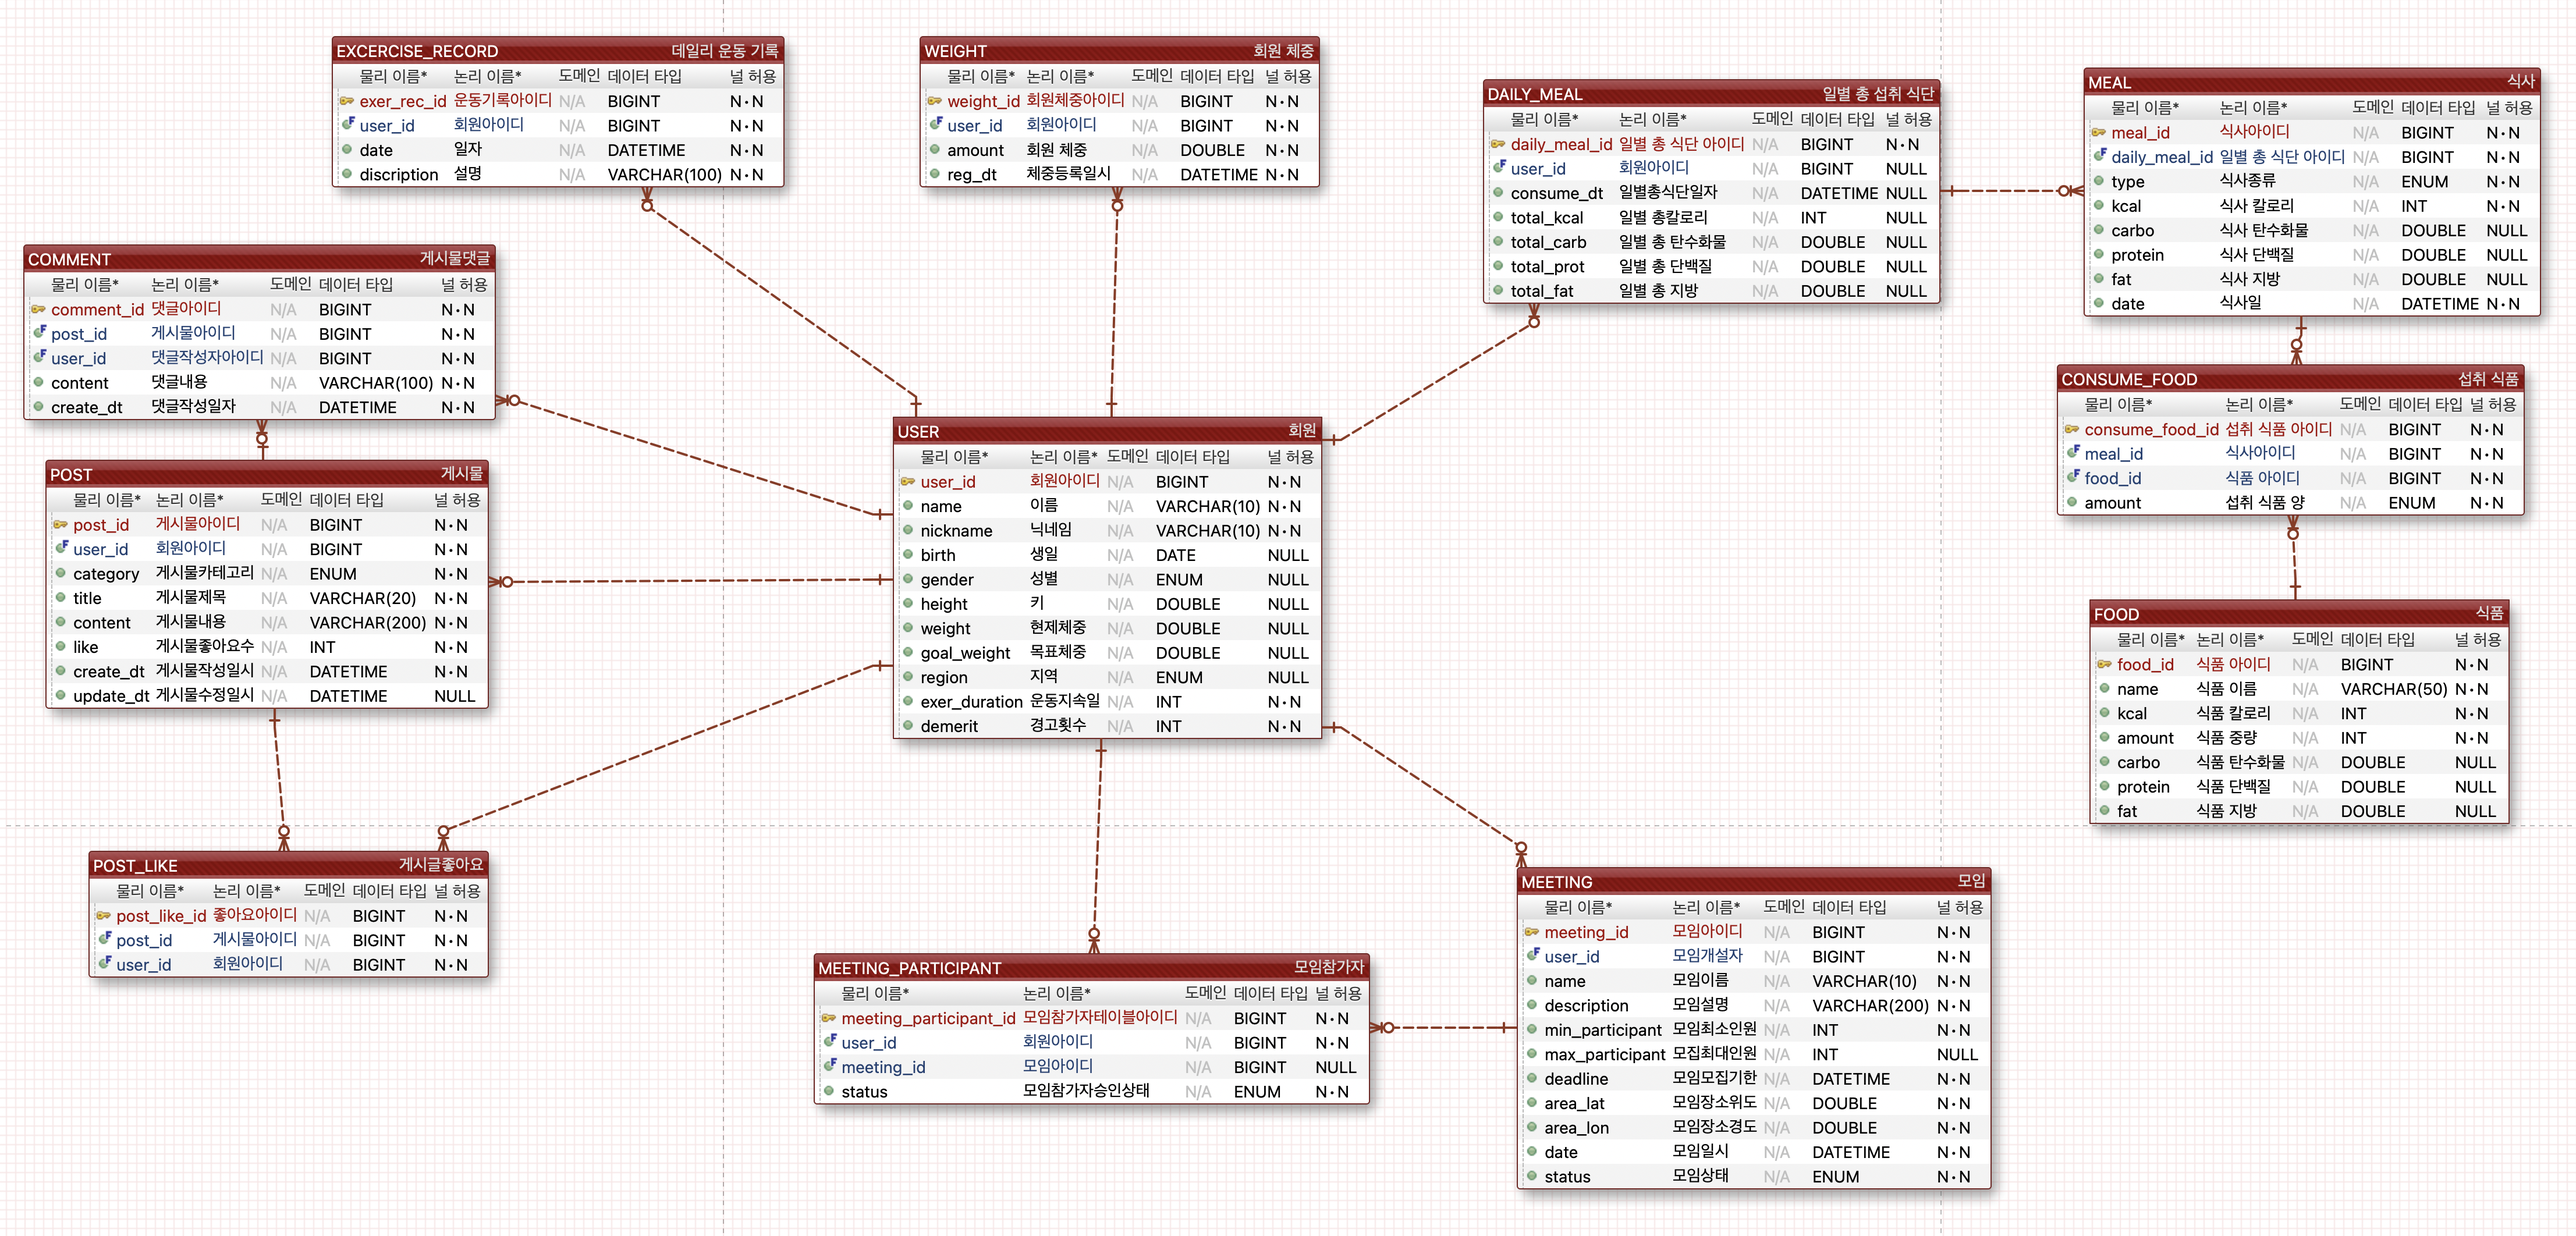
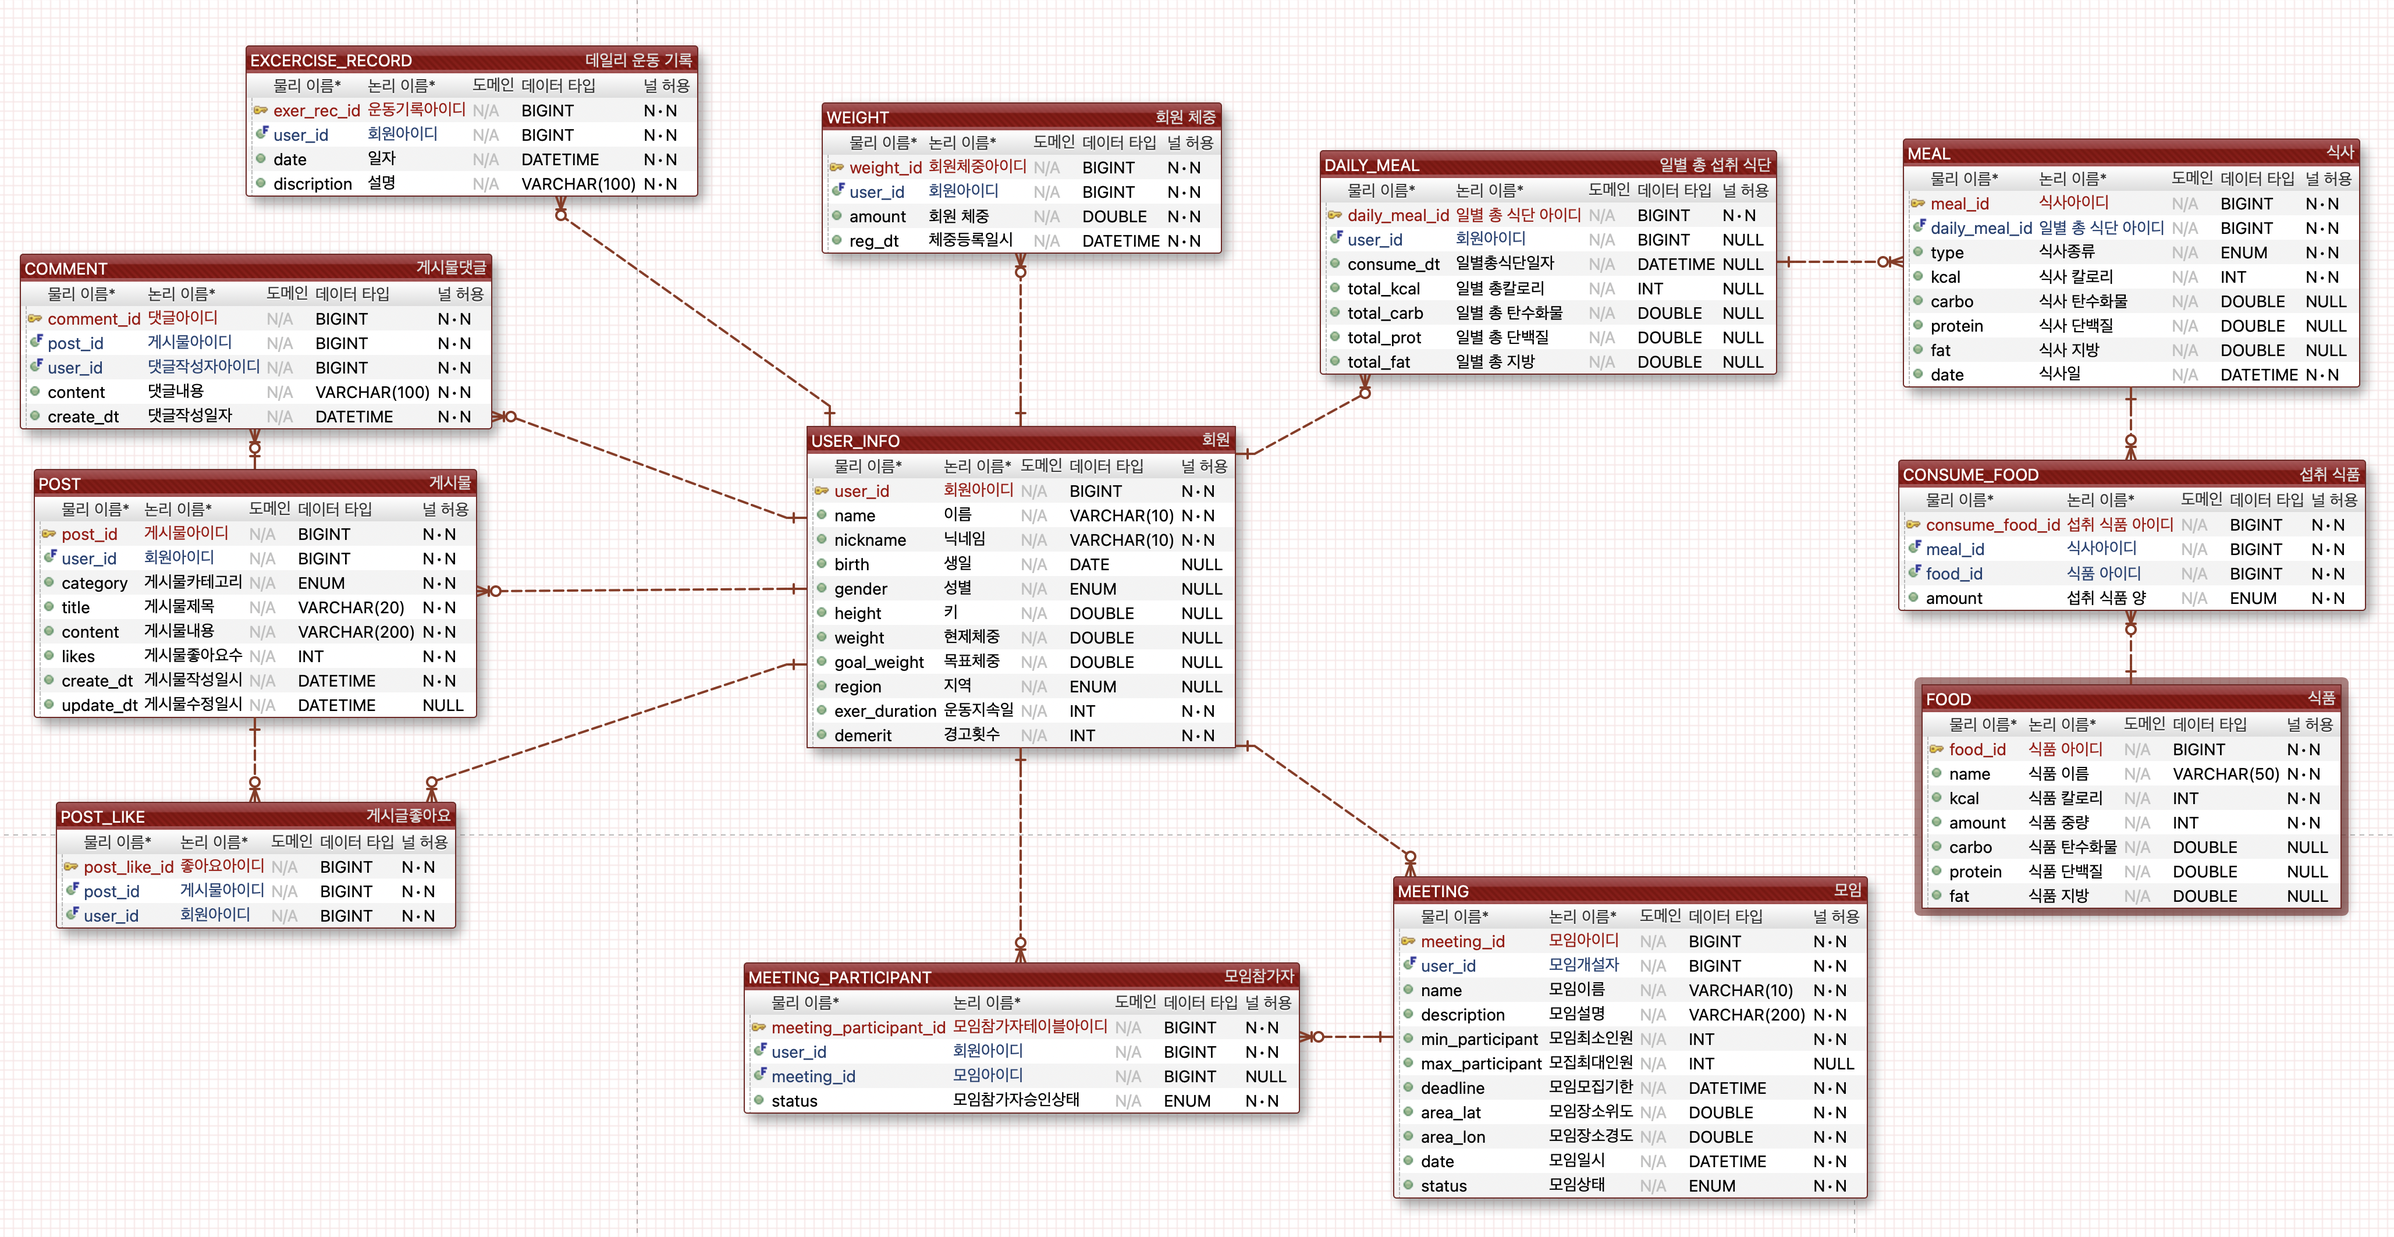
refactor: post entity 필드 리팩토링,
ERD 이미지 수정

diff --git a/domain/src/main/java/com/health/entity/PostEntity.java b/domain/src/main/java/com/health/entity/PostEntity.java
@@ -40,7 +40,7 @@ public class PostEntity extends BaseEntity{
     @Column(name = "content")
     private String content;
 
-    @Column(name = "like")
+    @Column(name = "likes")
     private Integer like;
 
     @Column(name = "create_dt")
